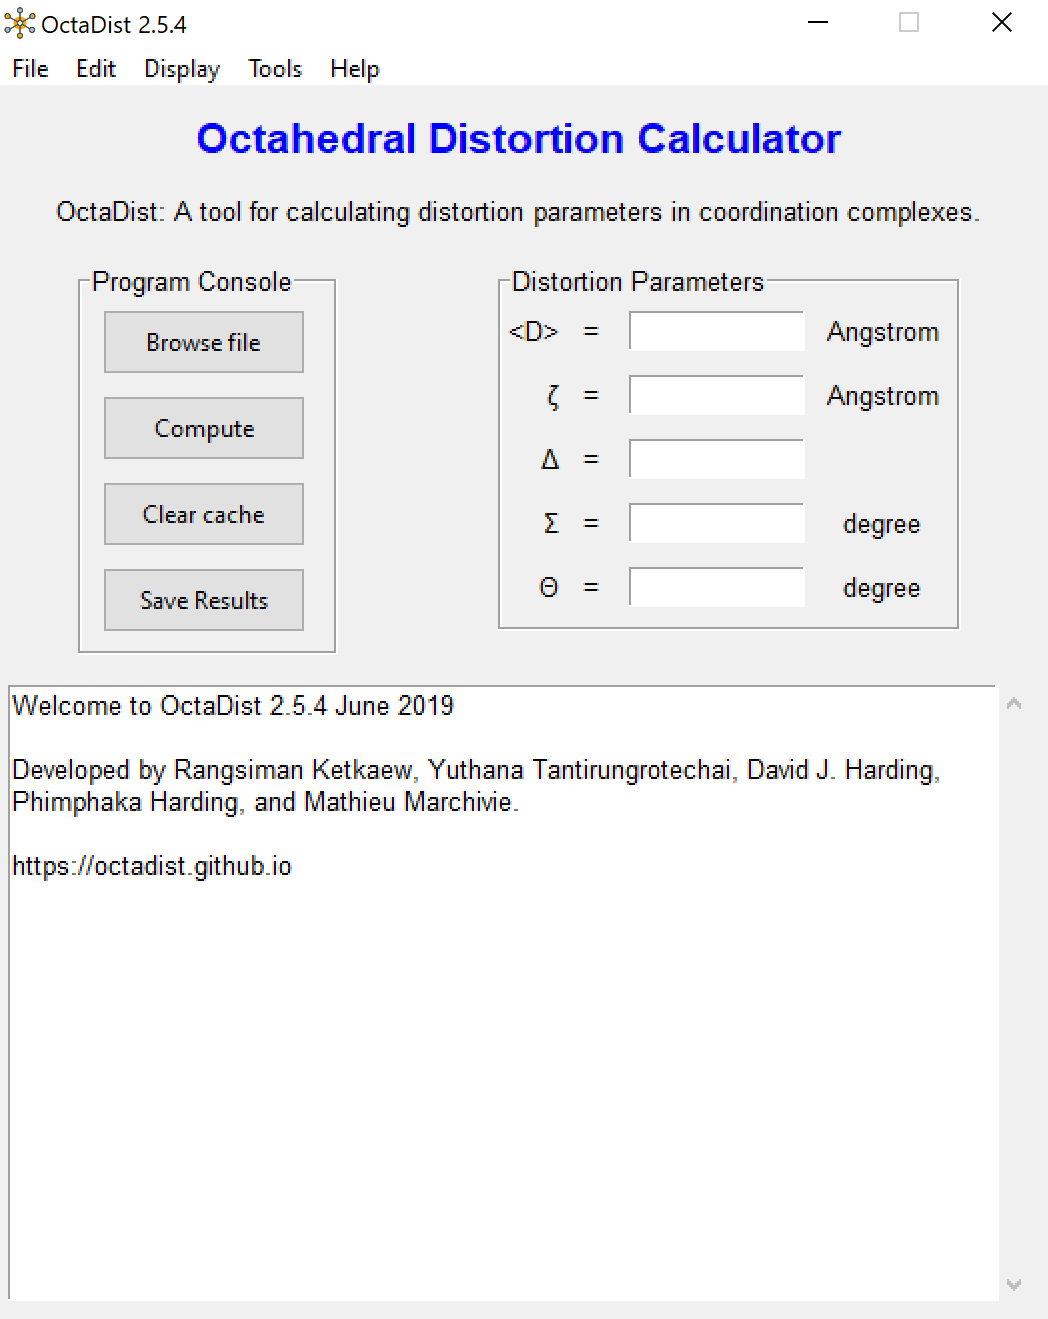
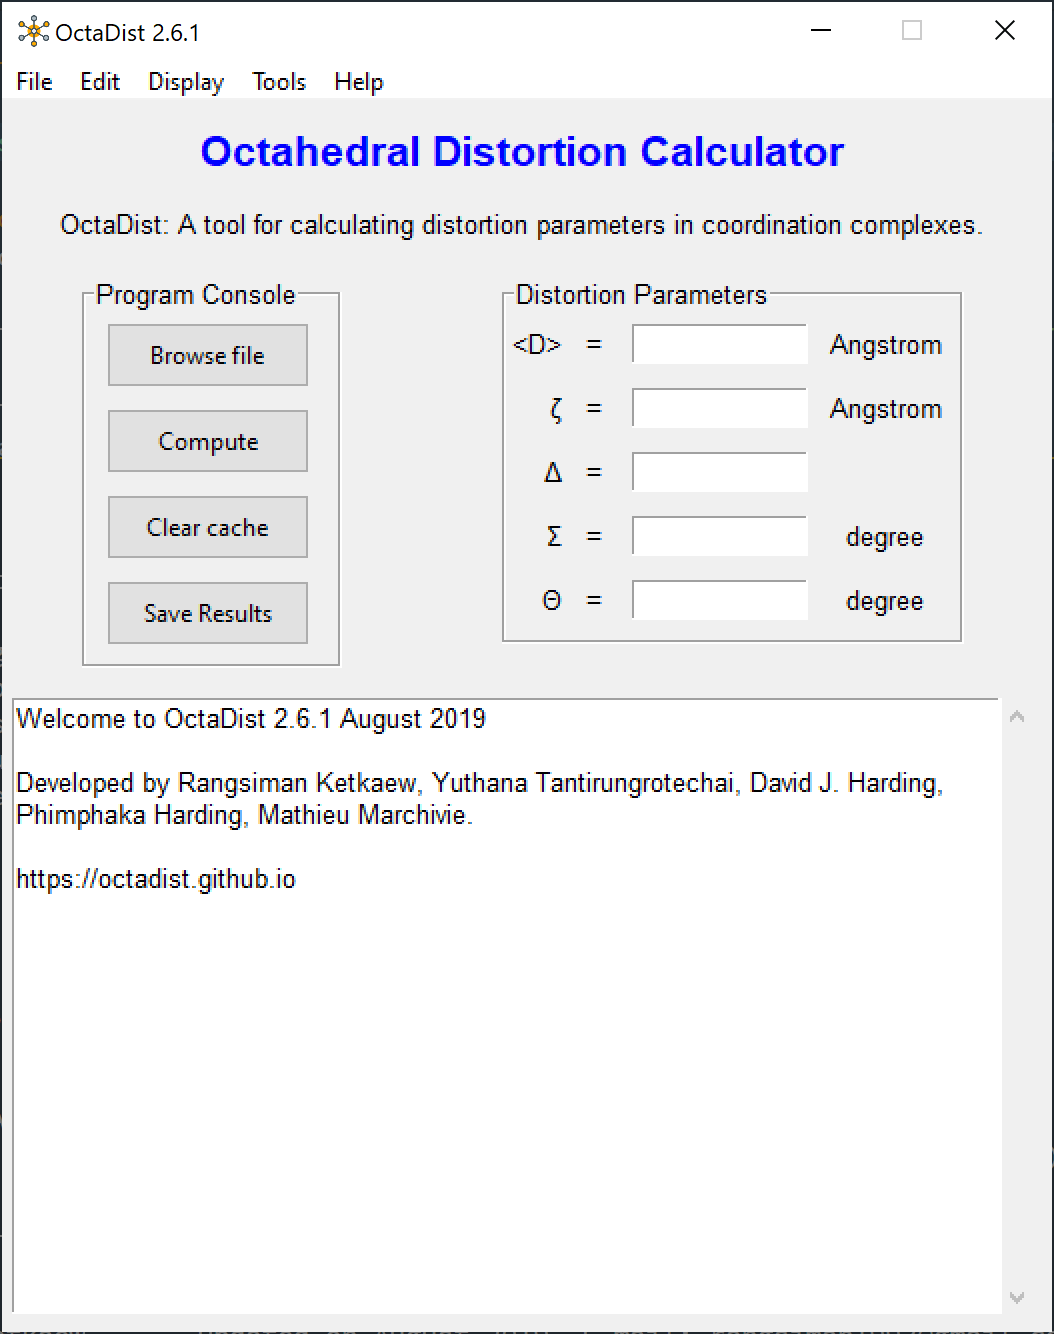
Changed screenshot of GUI to version 2.6.1

diff --git a/screenshots.md b/screenshots.md
@@ -7,8 +7,8 @@ layout: default
 ***
 ### Program Interface
 
-|         User Interface           | Using IPython for interactive work |
-|:--------------------------------:|:----------------------------------:|
+|                GUI               |                CLI                  |
+|:--------------------------------:|:-----------------------------------:|
 |![](images/Screenshots_GUI.png)   |![](images/Screenshots_CLI.png)      |
 
 ### Display of metal complexes and selected octahedral structures
